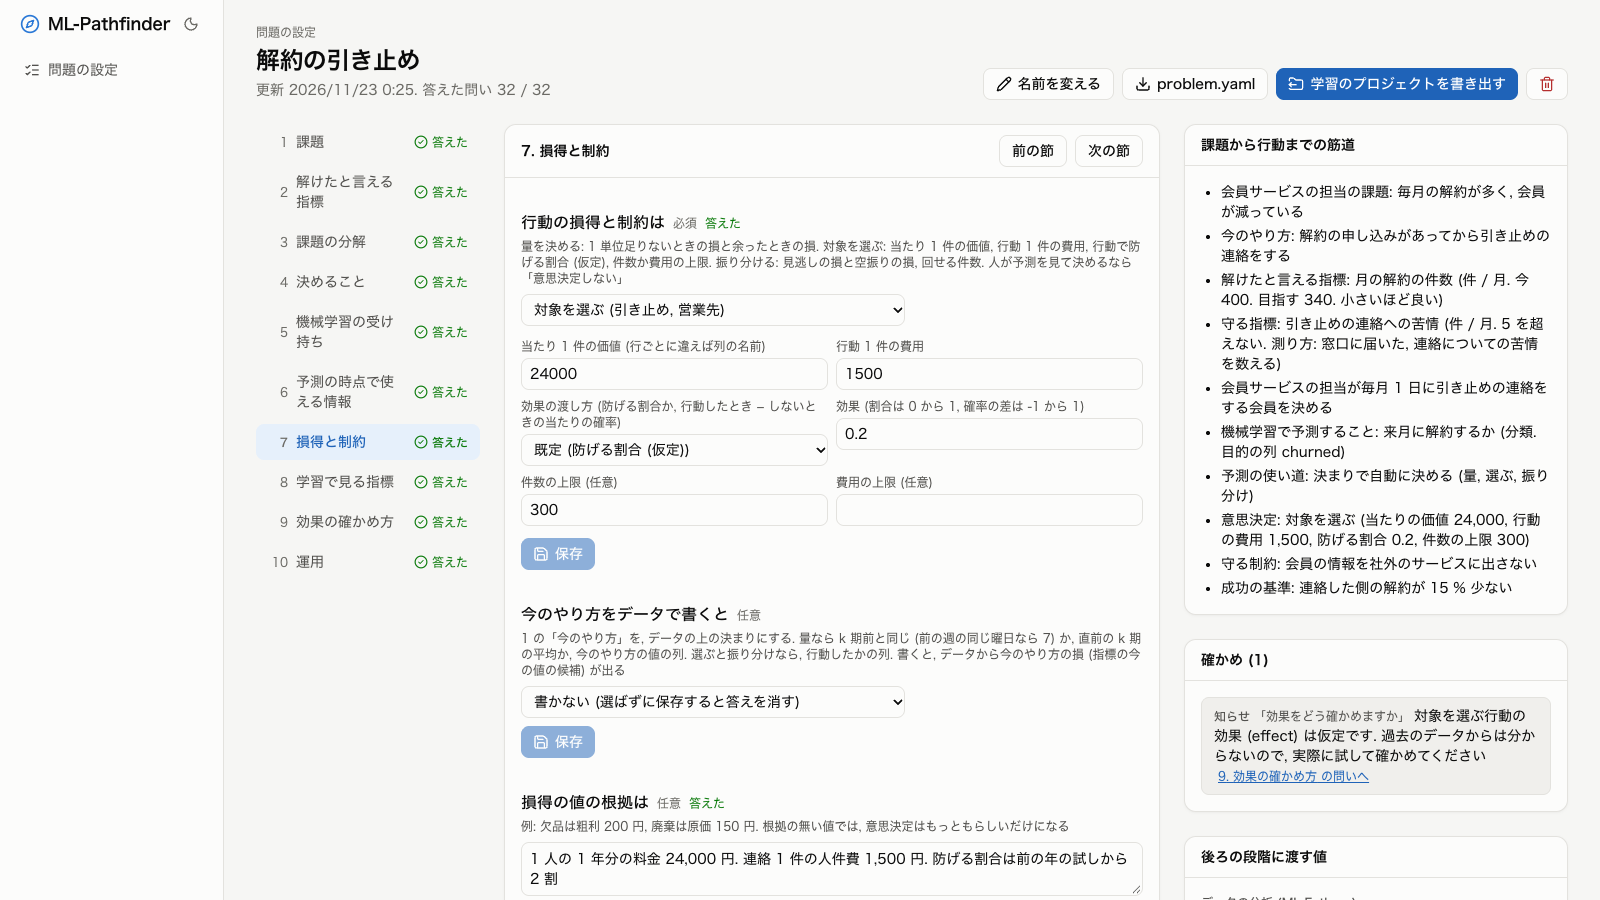
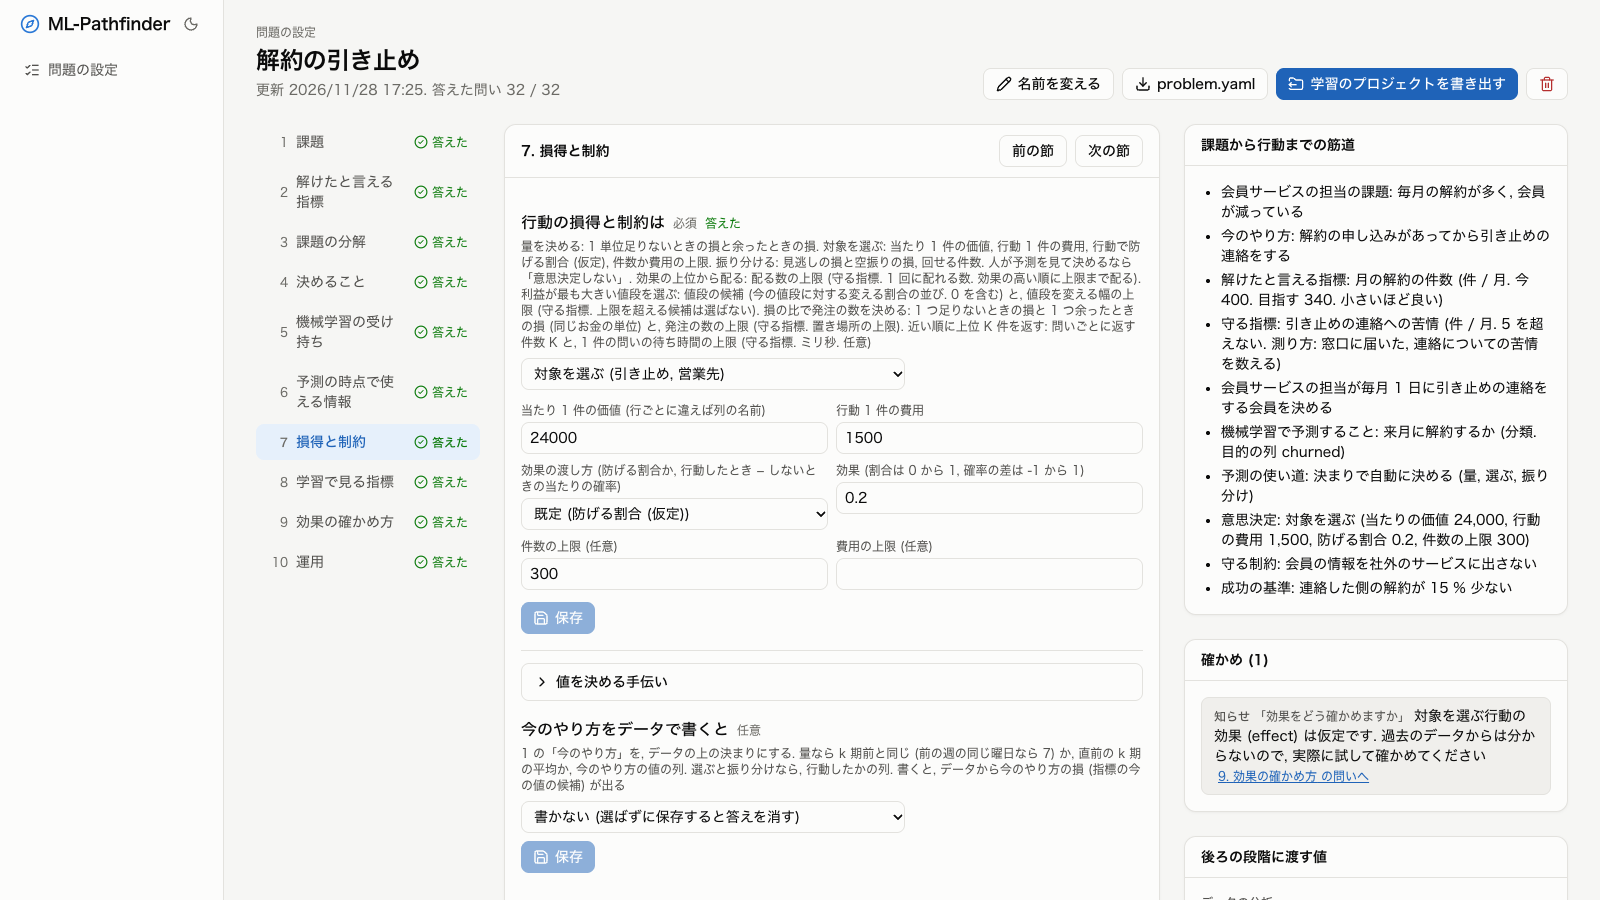
README の画面の例を今の画面で撮り直し, 見本の数を 6 つに合わせる

diff --git a/README.md b/README.md
@@ -27,7 +27,7 @@
 
 ## できること
 
-- **問題を作る**: 課題の言葉で名前を付けて新しく作るか, 架空の課題の見本 5 つ (時系列の予測, 分類, 既製のモデルをそのまま使う画像の分類, 既製のモデルの埋め込みを使う写真の群分け, 機械学習を使わないで終える例) の写しを開くか, 書き出した `problem.yaml` を取り込む. 一覧で答えた問いの数, 直すところの数, 後ろの段階に渡せるかが分かる
+- **問題を作る**: 課題の言葉で名前を付けて新しく作るか, 架空の課題の見本 6 つ (時系列の予測, 分類, 既製のモデルをそのまま使う画像の分類, 既製のモデルの埋め込みを使う写真の群分けと似た写真の検索, 機械学習を使わないで終える例) の写しを開くか, 書き出した `problem.yaml` を取り込む. 一覧で答えた問いの数, 直すところの数, 後ろの段階に渡せるかが分かる
 - **問いに答える**: 課題, 解けたと言える指標, 課題の分解, 決めること, 機械学習の受け持ち, 予測の時点で使える情報, 損得と制約, 学習で見る指標, 効果の確かめ方, 運用の 10 の節. 今の答えで要らない問いは出ない. 機械学習が要らないと答えれば, そこで終える
 - **受け持ちを選ぶ**: 予測する, 作る, 並べる, まとめる (表の行の群分け), 効果を見積もるから選び, 表の列のほか, 画像の領域, 点群, 画像の生成, 表の生成 (合成のデータ), 正常の行が多い表の異常の検知 (正解が無いか少しだけ), 無作為に配った記録からの顧客ごとの効果の見積もり (配る数の上限まで効果の上位に配る), 試しに値段を変えた売れ行きの記録からの値段を変える判断 (商品ごとに, 値段の候補の中で変える幅の上限を超えない, 利益が最も大きい値段を選ぶ), 商品ごとの日ごとの売れた数の記録からの時間をまたぐ量の判断 (先の期間の需要を分位点で予測し, 品切れの損と売れ残りの損の比から決まる分位点で, 上限の中で商品ごとの発注の数を決める), 続けて行動を選ぶ方策 (強化学習), 既製のモデルをそのまま使う画像の分類も扱う. 強化学習やシミュレータが要る答えでは, 学習・評価の段階で入れるものを「学習・評価の段階の準備」のカードで知らせる
 - **確かめと筋道**: 答えるたびに, 答えどうしの食い違いと足りない答え (直す, 見直す, 知らせ) と, 課題から行動までの筋道が出る. 確かめから問いへ移って直せる

diff --git a/TODO.md b/TODO.md
@@ -5,11 +5,7 @@
 
 ## 優先度 高
 
-### 画面の例の画像を撮り直す
-- 何を: README の画面の例 (docs/images) を, 殻の「段階をまたぐ言葉」に合わせた今の画面の文で撮り直す (`frontend/e2e/screens.sh`)
-- なぜ: 画像の中の文が, 1 つの問題を指す「問題の設定」や他の段階のアプリの名前のままで, 今の画面と食い違うため
-- 終わりの条件: docs/images の画像の文が今の画面と同じになる
-- つながり: ML-Studio の TODO.md の中の「画面の例の画像を撮り直す」
+無し
 
 ## 優先度 中
 
